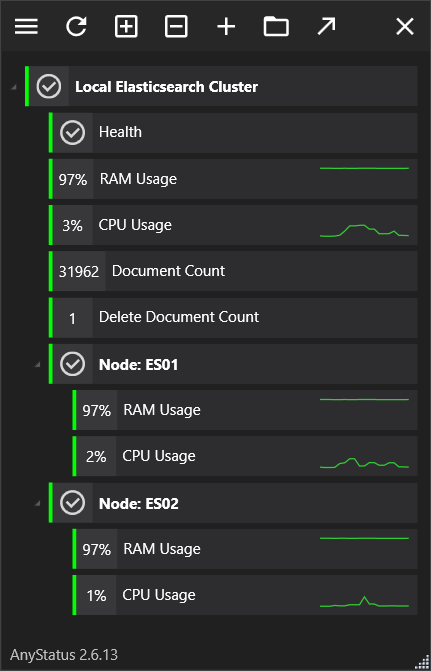
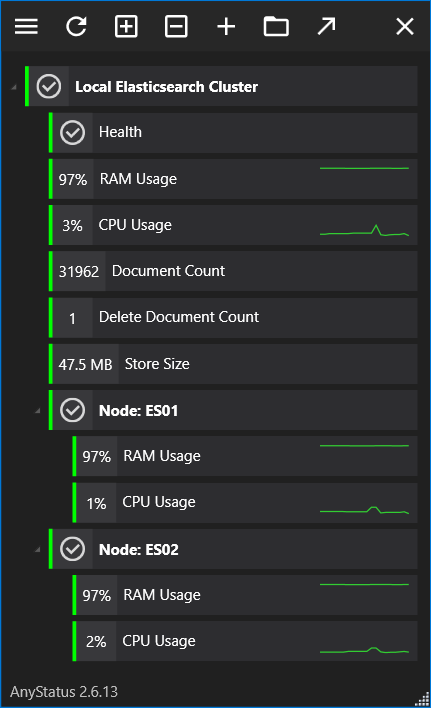
Store Size widget added

diff --git a/AnyStatus.Plugins.Elasticsearch/Index/StoreSize/StoreSizeMetricQuery.cs b/AnyStatus.Plugins.Elasticsearch/Index/StoreSize/StoreSizeMetricQuery.cs
@@ -1,0 +1,35 @@
+using AnyStatus.API;
+using Elasticsearch.Net;
+using Nest;
+using System;
+using System.Threading;
+using System.Threading.Tasks;
+using AnyStatus.Plugins.Elasticsearch.Helpers;
+
+namespace AnyStatus.Plugins.Elasticsearch.Index.StoreSize
+{
+    public class StoreSizeMetricQuery : IMetricQuery<StoreSizeWidget>
+    {
+        public async Task Handle(MetricQueryRequest<StoreSizeWidget> request, CancellationToken cancellationToken)
+        {
+            var documentCountWidget = request.DataContext;
+
+            var connectionPool = new SingleNodeConnectionPool(new Uri($"http://{documentCountWidget.MasterIp}:{documentCountWidget.MasterPort}"));
+
+            var settings = new ConnectionSettings(connectionPool);
+            var client = new ElasticClient(settings);
+
+            var clusterStatsResponse = await client.Cluster.StatsAsync(new ClusterStatsRequest { FilterPath = new[] { "indices.store.size_in_bytes" } }, cancellationToken);
+
+            if (clusterStatsResponse.IsValid)
+            {
+                request.DataContext.Value = FileSizeFormatter.FormatSize(clusterStatsResponse.Indices.Store.SizeInBytes);
+                request.DataContext.State = State.Ok;
+            }
+            else
+            {
+                documentCountWidget.State = State.Invalid;
+            }
+        }
+    }
+}

diff --git a/AnyStatus.Plugins.Elasticsearch/Index/StoreSize/StoreSizeWidget.cs b/AnyStatus.Plugins.Elasticsearch/Index/StoreSize/StoreSizeWidget.cs
@@ -1,0 +1,30 @@
+using AnyStatus.API;
+using System.ComponentModel;
+using System.ComponentModel.DataAnnotations;
+
+namespace AnyStatus.Plugins.Elasticsearch.Index.StoreSize
+{
+    [DisplayName("Store Size")]
+    [DisplayColumn("Elasticsearch")]
+    [Description("Shows store size taken by primary & replica shards for the Elasticsearch Cluster")]
+    public class StoreSizeWidget : Metric, ISchedulable
+    {
+        [Required]
+        [Category("Master")]
+        [Description("Elasticsearch master server ip")]
+        public string MasterIp { get; set; }
+
+        [Required]
+        [Category("Master")]
+        [Description("Elasticsearch master server port")]
+        public int MasterPort { get; set; }
+
+        public StoreSizeWidget()
+        {
+            MasterPort = 9200;
+
+            Interval = 1;
+            Units = IntervalUnits.Minutes;
+        }
+    }
+}

diff --git a/AnyStatus.Plugins.Elasticsearch.Tests/Widgets/Index/DeletedDocumentCountTests.cs b/AnyStatus.Plugins.Elasticsearch.Tests/Widgets/Index/DeletedDocumentCountTests.cs
@@ -1,0 +1,24 @@
+using AnyStatus.API;
+using AnyStatus.Plugins.Elasticsearch.Index.DeletedDocumentCount;
+using Microsoft.VisualStudio.TestTools.UnitTesting;
+using System.Threading;
+using System.Threading.Tasks;
+
+namespace AnyStatus.Plugins.Elasticsearch.Tests.Widgets.Index
+{
+    [TestClass]
+    public class DeletedDocumentCountTests
+    {
+        [TestMethod]
+        public async Task DeletedDocumentCount()
+        {
+            var clusterHealthWidget = new DeletedDocumentCountWidget { MasterIp = "127.0.0.1", MasterPort = 9200 };
+            var request = MetricQueryRequest.Create(clusterHealthWidget);
+            var metricQuery = new DeletedDocumentCountMetricQuery();
+
+            await metricQuery.Handle(request, CancellationToken.None);
+
+            Assert.AreSame(State.Ok, request.DataContext.State);
+        }
+    }
+}

diff --git a/AnyStatus.Plugins.Elasticsearch.Tests/Widgets/Index/StoreSizeTests.cs b/AnyStatus.Plugins.Elasticsearch.Tests/Widgets/Index/StoreSizeTests.cs
@@ -1,0 +1,24 @@
+using AnyStatus.API;
+using AnyStatus.Plugins.Elasticsearch.Index.StoreSize;
+using Microsoft.VisualStudio.TestTools.UnitTesting;
+using System.Threading;
+using System.Threading.Tasks;
+
+namespace AnyStatus.Plugins.Elasticsearch.Tests.Widgets.Index
+{
+    [TestClass]
+    public class StoreSizeTests
+    {
+        [TestMethod]
+        public async Task StoreSize()
+        {
+            var clusterHealthWidget = new StoreSizeWidget { MasterIp = "127.0.0.1", MasterPort = 9200 };
+            var request = MetricQueryRequest.Create(clusterHealthWidget);
+            var metricQuery = new StoreSizeMetricQuery();
+
+            await metricQuery.Handle(request, CancellationToken.None);
+
+            Assert.AreSame(State.Ok, request.DataContext.State);
+        }
+    }
+}

diff --git a/AnyStatus.Plugins.Elasticsearch/Helpers/FileSizeFormatter.cs b/AnyStatus.Plugins.Elasticsearch/Helpers/FileSizeFormatter.cs
@@ -1,0 +1,23 @@
+using System;
+
+namespace AnyStatus.Plugins.Elasticsearch.Helpers
+{
+    //Please refer for the original implementation : https://www.c-sharpcorner.com/article/csharp-convert-bytes-to-kb-mb-gb/
+    public static class FileSizeFormatter
+    {
+        // Load all suffixes in an array  
+        static readonly string[] suffixes = { "Bytes", "KB", "MB", "GB", "TB", "PB" };
+
+        public static string FormatSize(double bytes)
+        {
+            int counter = 0;
+            double number = bytes;
+            while (Math.Round(number / 1024) >= 1)
+            {
+                number /= 1024;
+                counter++;
+            }
+            return string.Format("{0:n1} {1}", number, suffixes[counter]);
+        }
+    }
+}

diff --git a/README.md b/README.md
@@ -10,6 +10,7 @@ Widgets for AnyStatus to provide capability to check various Elasticsearch metri
 -  [x] Cluster Health Check
 -  [x] Cluster CPU Usage
 -  [x] Cluster Ram Usage
+-  [x] Store Size
 -  [x] Document Count
 -  [x] Deleted Document Count
 -  [x] Node CPU Usage
